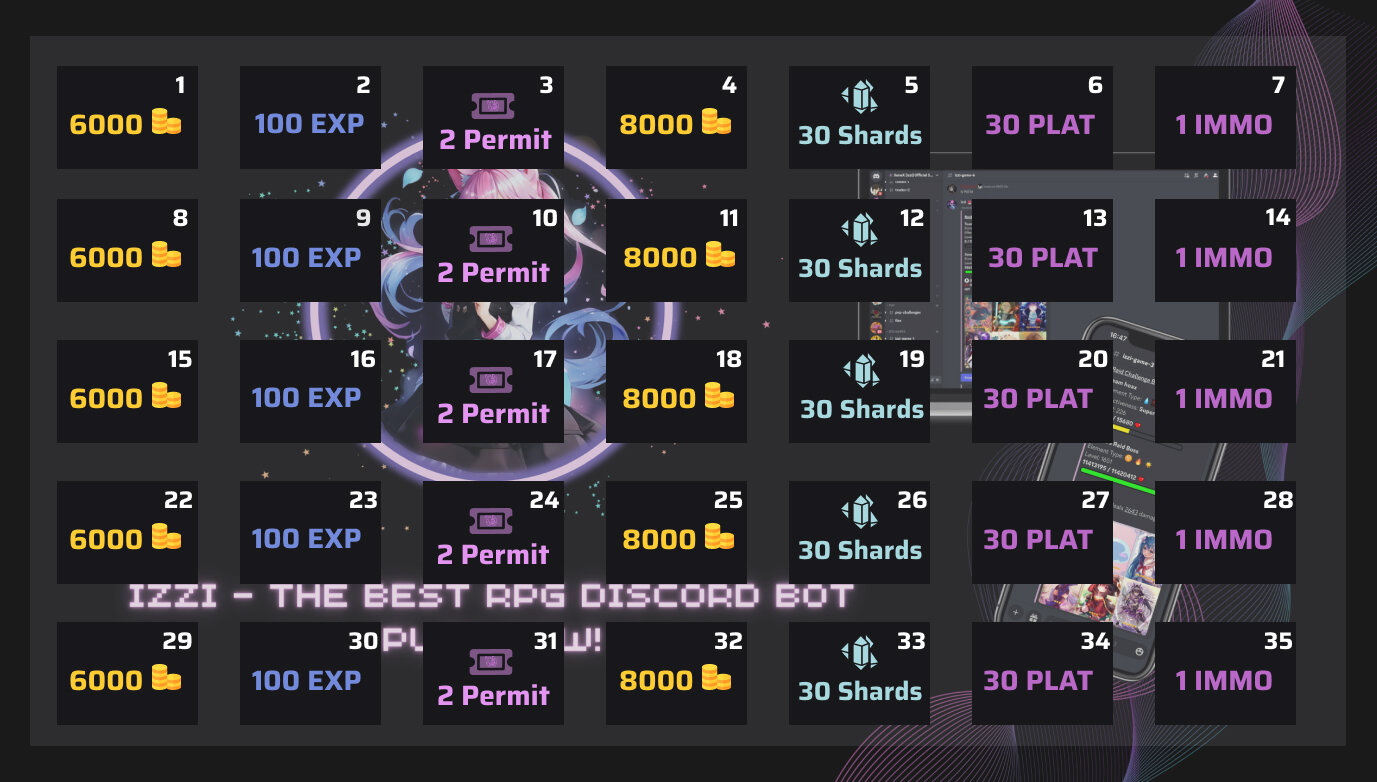
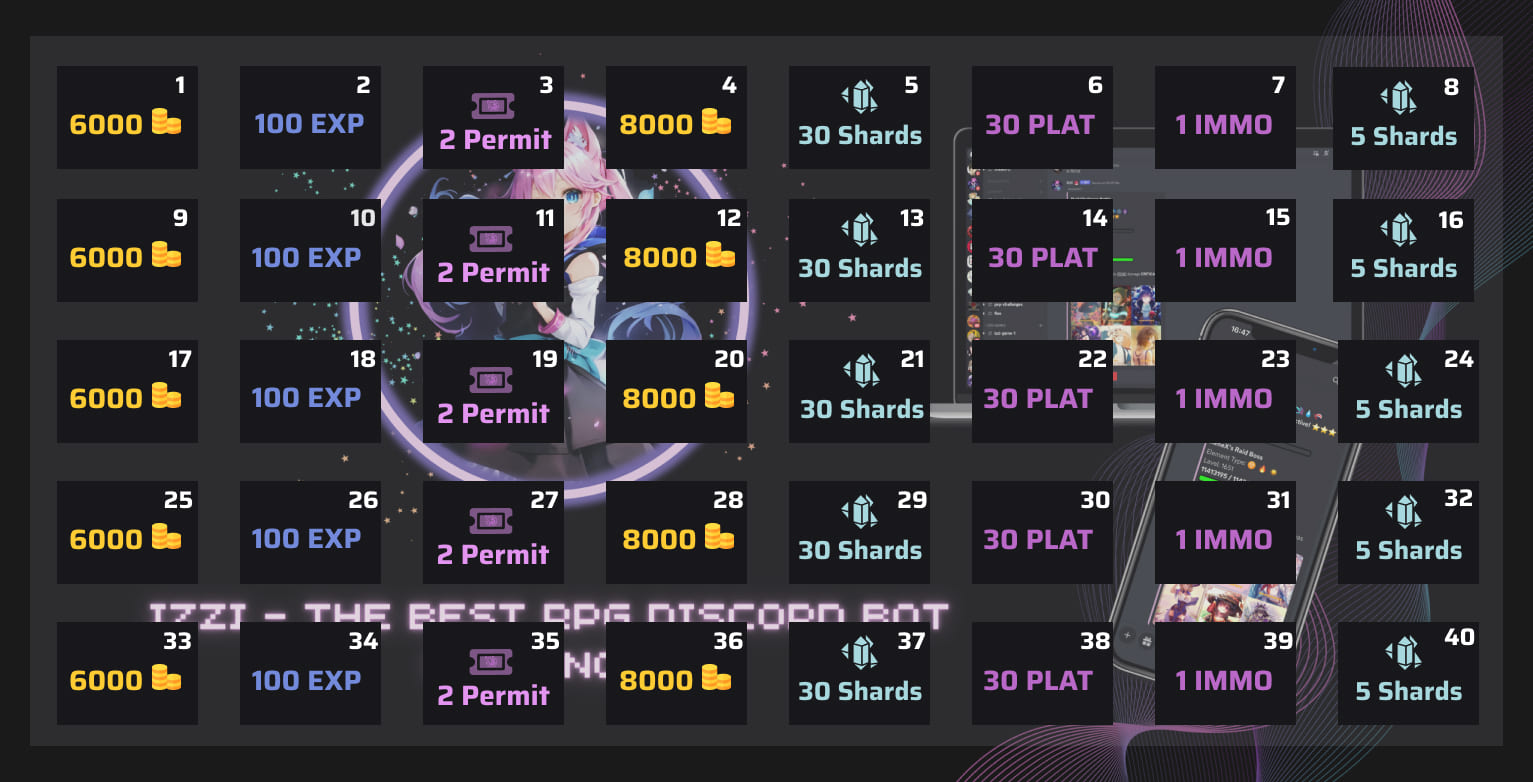
monthly reward update

Changed region(s): [[0.0312, 0.0, 1.0, 1.0], [0.9993, 0.0921, 1.0, 0.1228]]

diff --git a/src/server/controllers/WebhooksController.ts b/src/server/controllers/WebhooksController.ts
@@ -15,7 +15,10 @@ import { UserProps, UserUpdateProps } from "@customTypes/users";
 import { getMonthlyCard } from "api/controllers/MonthlyCardsController";
 import { numericWithComma } from "helpers";
 import { titleCase } from "title-case";
-import { createCollection, directUpdateCreateFodder } from "api/controllers/CollectionsController";
+import {
+	createCollection,
+	directUpdateCreateFodder,
+} from "api/controllers/CollectionsController";
 
 export const processUpVote = async (req: Request, res: Response) => {
 	try {
@@ -50,7 +53,9 @@ export const processUpVote = async (req: Request, res: Response) => {
         "Thank you for voting! You have received " +
         `__${numericWithComma(goldReward)}__ Gold ${
         	emoji.gold
-        }, __${passReward}__ Raid Permit(s) ${emoji.permitsic}, ` +
+        }, __3x__ Shards ${emoji.shard}, __${passReward}__ Raid Permit(s) ${
+        	emoji.permitsic
+        }, ` +
         "and refilled your mana and dungeon mana for dailying.";
 			const updateObj = {
 				voted_at: summoner.voted_at,
@@ -69,8 +74,18 @@ export const processUpVote = async (req: Request, res: Response) => {
 					? summoner.izzi_points + IPreward
 					: IPreward;
 
-				Object.assign(updateObj, { izzi_points: summoner.izzi_points });
-				messageStr = `${messageStr} You have also received ${emoji.izzipoints} __${IPreward}__ IP.`;
+				const shardReward = 6;
+				summoner.shards = (summoner.shards || 0) + shardReward;
+
+				Object.assign(updateObj, {
+					izzi_points: summoner.izzi_points,
+					shards: summoner.shards,
+				});
+				messageStr = `${messageStr} You have also received ${emoji.izzipoints} __${IPreward}__ IP ` +
+				`and __${shardReward}__ Shards ${emoji.shard}.`;
+			} else {
+				summoner.shards = (summoner.shards || 0) + 3;
+				updateObj.shards = summoner.shards;
 			}
 
 			// monthly bonus rewards
@@ -81,7 +96,7 @@ export const processUpVote = async (req: Request, res: Response) => {
 					updateObj.gold = (updateObj.gold || 0) + reward.gold;
 				}
 				if (reward.shards) {
-					updateObj.shards = summoner.shards + reward.shards;
+					updateObj.shards = (updateObj.shards || 0) + reward.shards;
 				}
 				if (reward.raid_pass) {
 					updateObj.raid_pass = reward.raid_pass + (updateObj.raid_pass || 0);
@@ -173,19 +188,24 @@ const monthlyCardMatrix = [
 			rank_id: 7,
 		},
 	},
+	{
+		vote: 8,
+		reward: { shards: 5 },
+		premiumReward: { shards: 10 }
+	}
 ];
 
 const prepMatrix = () => {
-	// total 35 votes
-	const total = 35;
+	// total 40 votes
+	const total = 40;
 	const matrix = [];
 	for (let i = 0; i < total; i++) {
-		const item = monthlyCardMatrix[i % 7];
+		const item = monthlyCardMatrix[i % 8];
 		matrix.push({
 			vote: i + 1,
 			reward: item.reward,
 			premiumReward: item.premiumReward,
-		}); // 7x5 matrix
+		}); // 8x5 matrix
 	}
 	return matrix;
 };
@@ -209,11 +229,13 @@ const processMonthlyVoteReward = async (user: UserProps) => {
 	}
 	if (item.reward.type === "immortal" || item.reward.type === "fodder") {
 		if (item.reward.type === "fodder") {
-			await directUpdateCreateFodder([ {
-				character_id: card.character_id,
-				user_id: user.id,
-				count: item.reward.number
-			} ]);
+			await directUpdateCreateFodder([
+				{
+					character_id: card.character_id,
+					user_id: user.id,
+					count: item.reward.number,
+				},
+			]);
 		}
 		if (item.reward.type === "immortal") {
 			await createCollection({

diff --git a/src/modules/commands/basic/info..ts b/src/modules/commands/basic/info..ts
@@ -57,11 +57,11 @@ export const daily = async ({ context, client, options }: BaseProps) => {
           " " +
           "Use daily to gain __2,000__ and 150xStreaks (up to 30)" +
           " " +
-          `Gold ${emoji.gold} and 1 Raid Permit(s) (2 if married)` +
+          `Gold ${emoji.gold}, 3 Shards ${emoji.shard} (6 if premium) 1 Raid Permit(s) (2 if married)` +
           " " +
           "as you vote! You get bonus __2,000__ gold if you're married!" +
           " " +
-          `You get 4IP ${emoji.izzipoints} if premium and ` +
+          `You get also 4IP ${emoji.izzipoints} if premium and ` +
           "Your mana as well as dungeon mana also gets refilled as you vote."
 
 				// removed in favor of monthly votes
@@ -99,7 +99,7 @@ export const daily = async ({ context, client, options }: BaseProps) => {
               `\nTotal Collectables: **__5x__ Immortal ${cardName}, __150x__ Platinum ${cardName} Fodders.**`
 					)
 					.setFooter({
-						text: "After 35 votes you receive 6,000 Gold per vote",
+						text: "After 40 votes you receive 6,000 Gold per vote",
 						iconURL: author.displayAvatarURL(),
 					});
 			} else {
